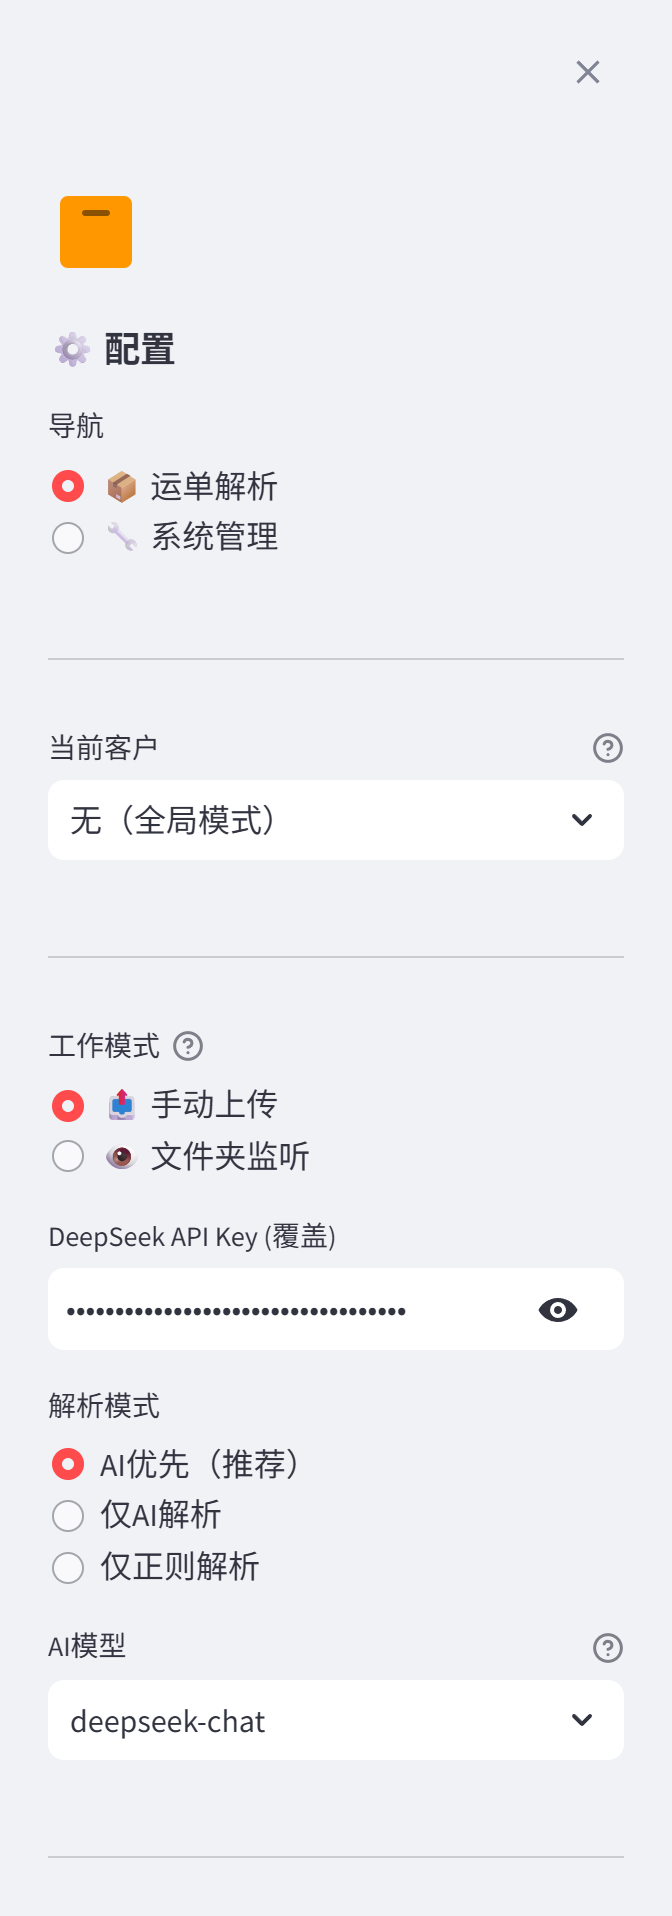
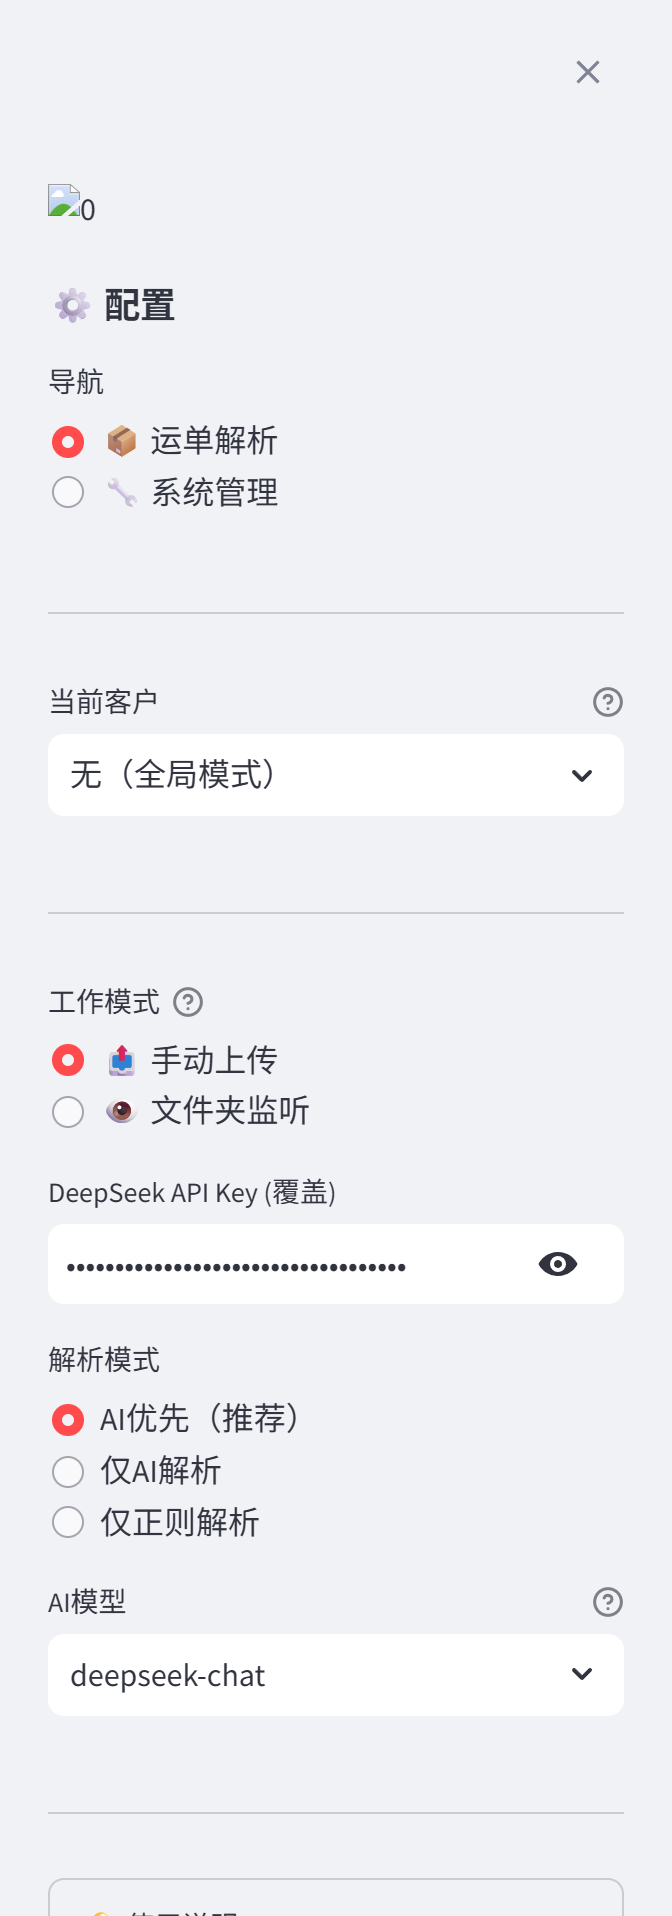
修复无 secrets.toml 时的 "No secrets files found" 报错
- 用 st.secrets.load_if_toml_exists() 静默检测，本地仅用 .env 时不再触发 st.error 红字报错
- 云端用 secrets 时仍正常加载
- 重新截取界面截图（移除错误框）

diff --git a/app.py b/app.py
@@ -31,13 +31,16 @@ st.set_page_config(
 # ─── Streamlit Cloud 适配：secrets → 环境变量 ──────────
 # 本地用 .streamlit/secrets.toml，云端在 Dashboard 配置
 # 注入为环境变量后，所有 os.getenv() 调用透明兼容
-for _key in ["DEEPSEEK_API_KEY", "DEEPSEEK_BASE_URL", "MODEL_NAME",
-             "WATCH_DIR", "AUTO_EXCEL"]:
-    try:
-        if _key in st.secrets and _key not in os.environ:
-            os.environ[_key] = st.secrets[_key]
-    except Exception:
-        pass  # secrets 不可用时忽略（非 Streamlit 环境）
+# 注意：直接访问 st.secrets 在无 secrets.toml 时会触发 st.error("No secrets files found")
+# 因此先用 load_if_toml_exists() 静默检测，本地仅用 .env 时不会报错
+if st.secrets.load_if_toml_exists():
+    for _key in ["DEEPSEEK_API_KEY", "DEEPSEEK_BASE_URL", "MODEL_NAME",
+                 "WATCH_DIR", "AUTO_EXCEL"]:
+        try:
+            if _key in st.secrets and _key not in os.environ:
+                os.environ[_key] = st.secrets[_key]
+        except Exception:
+            pass  # 单个 key 缺失不影响整体
 
 st.markdown("""
 <style>
